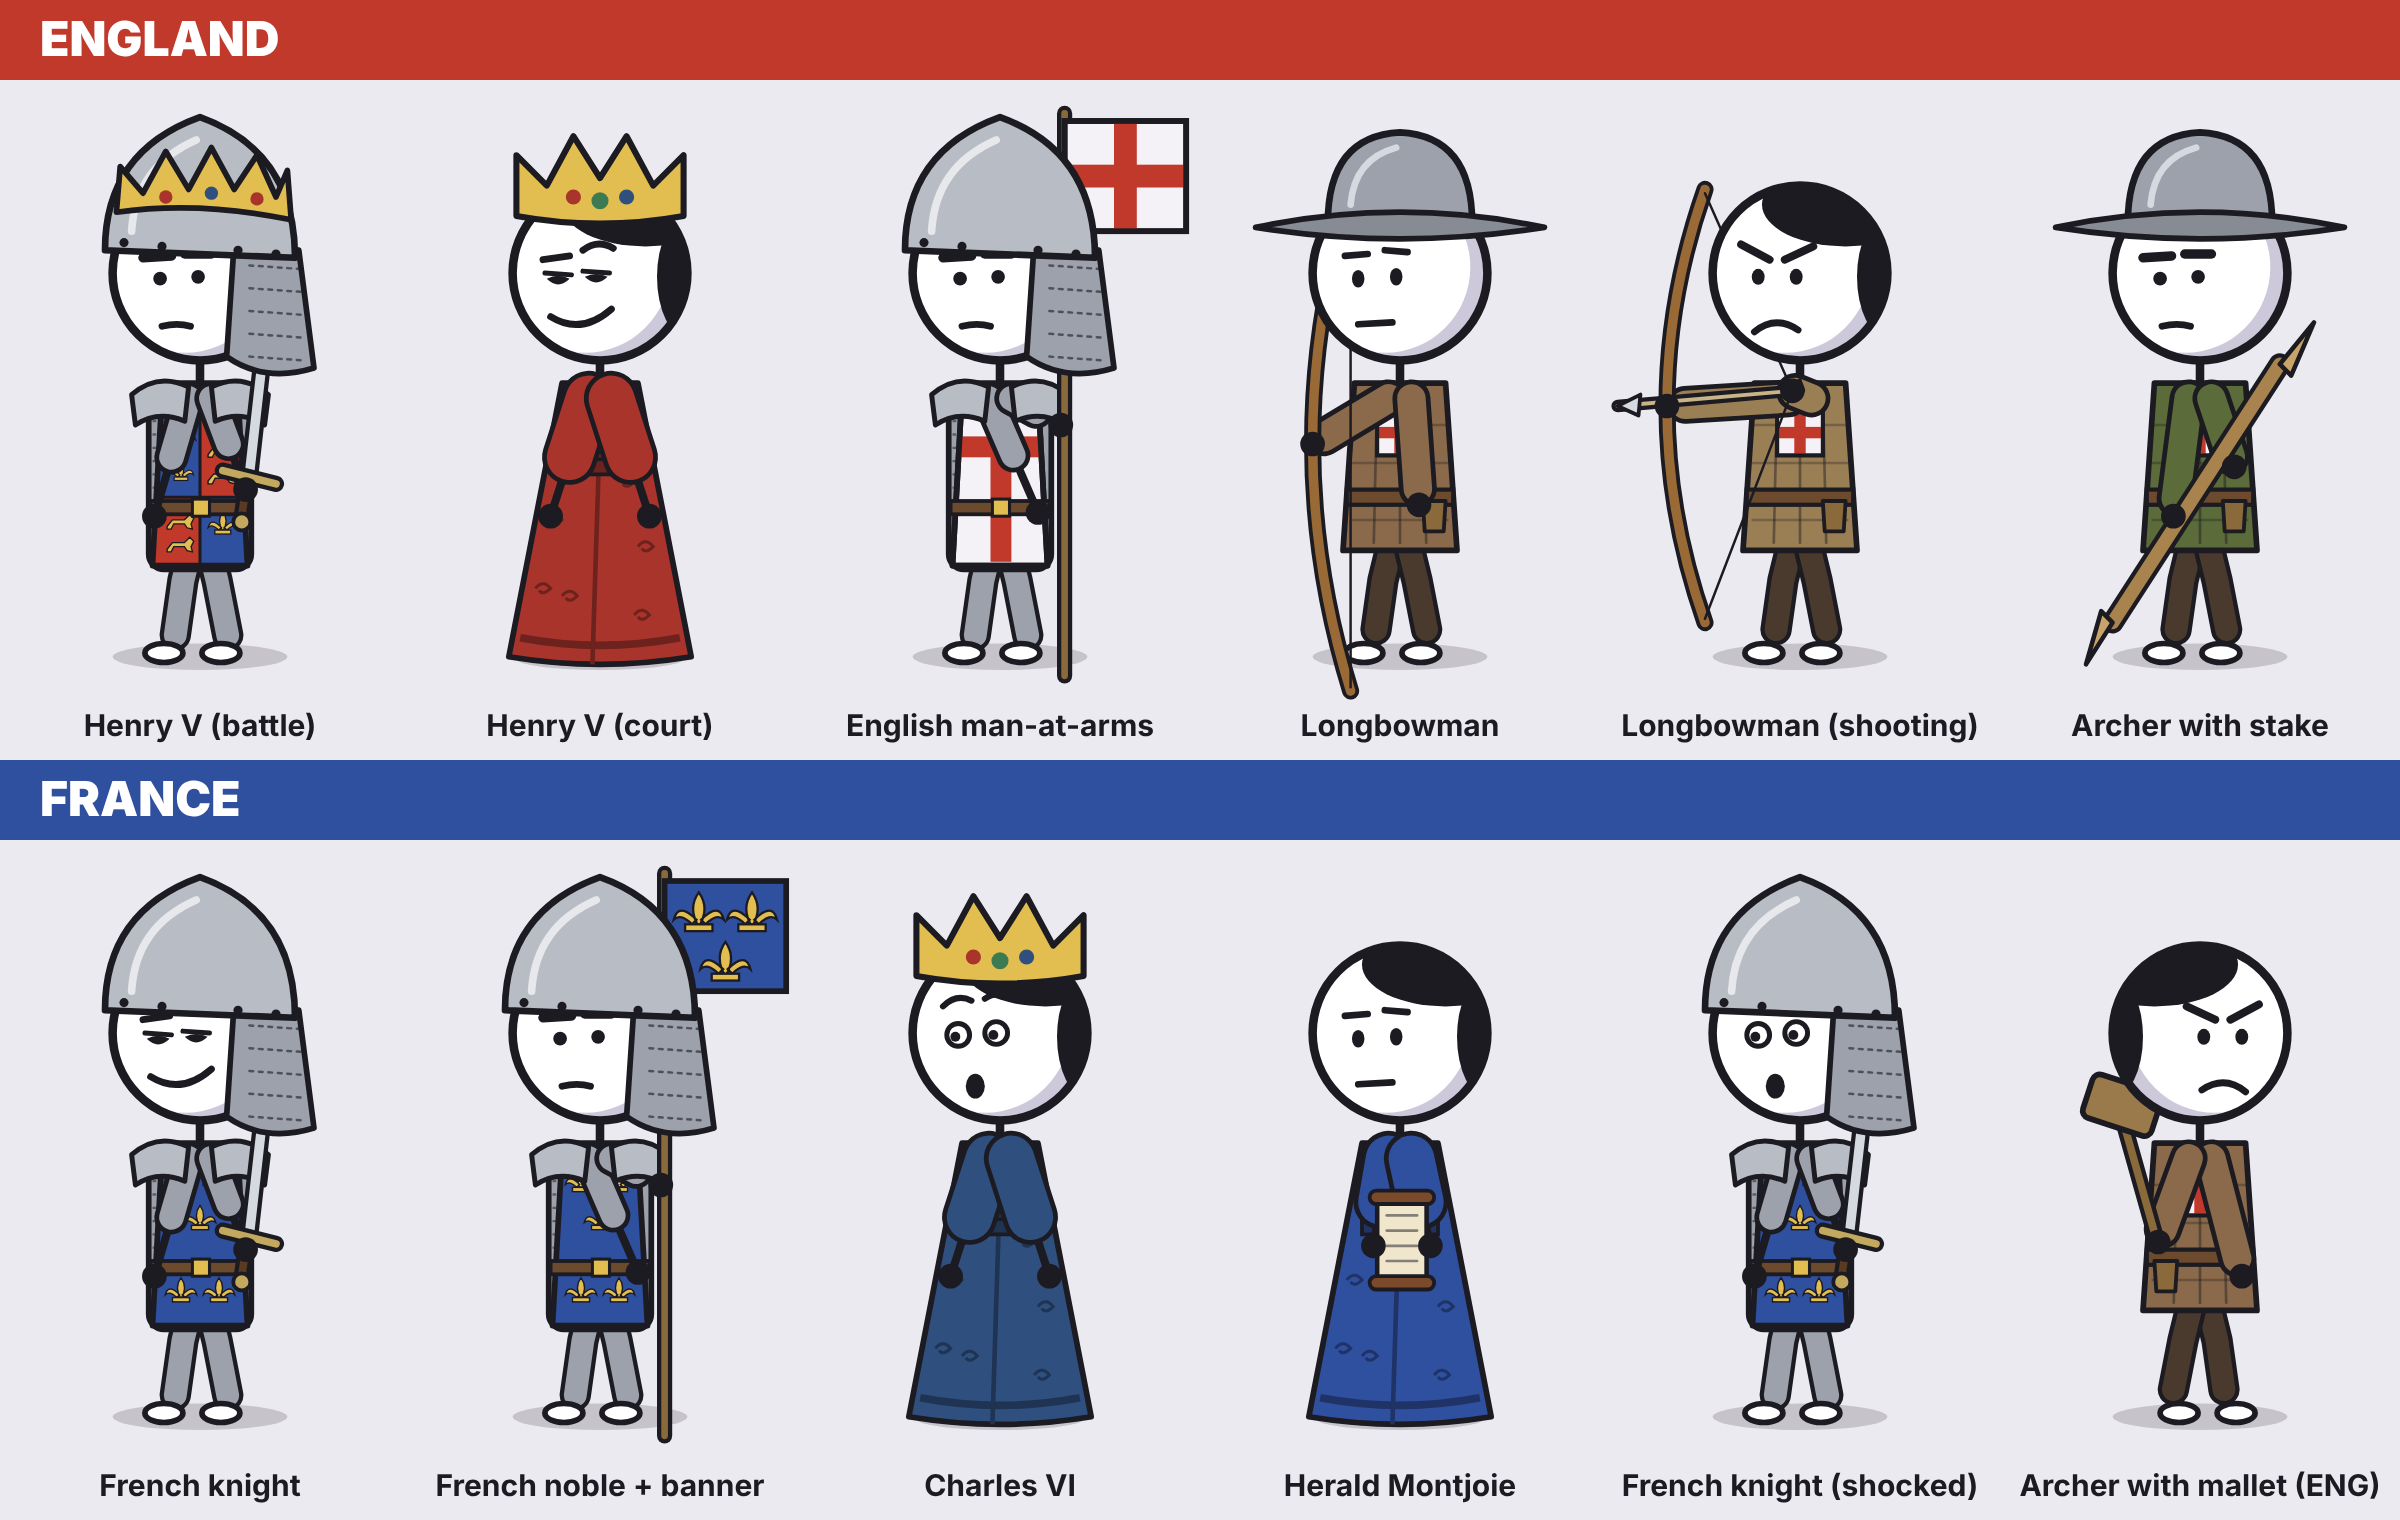
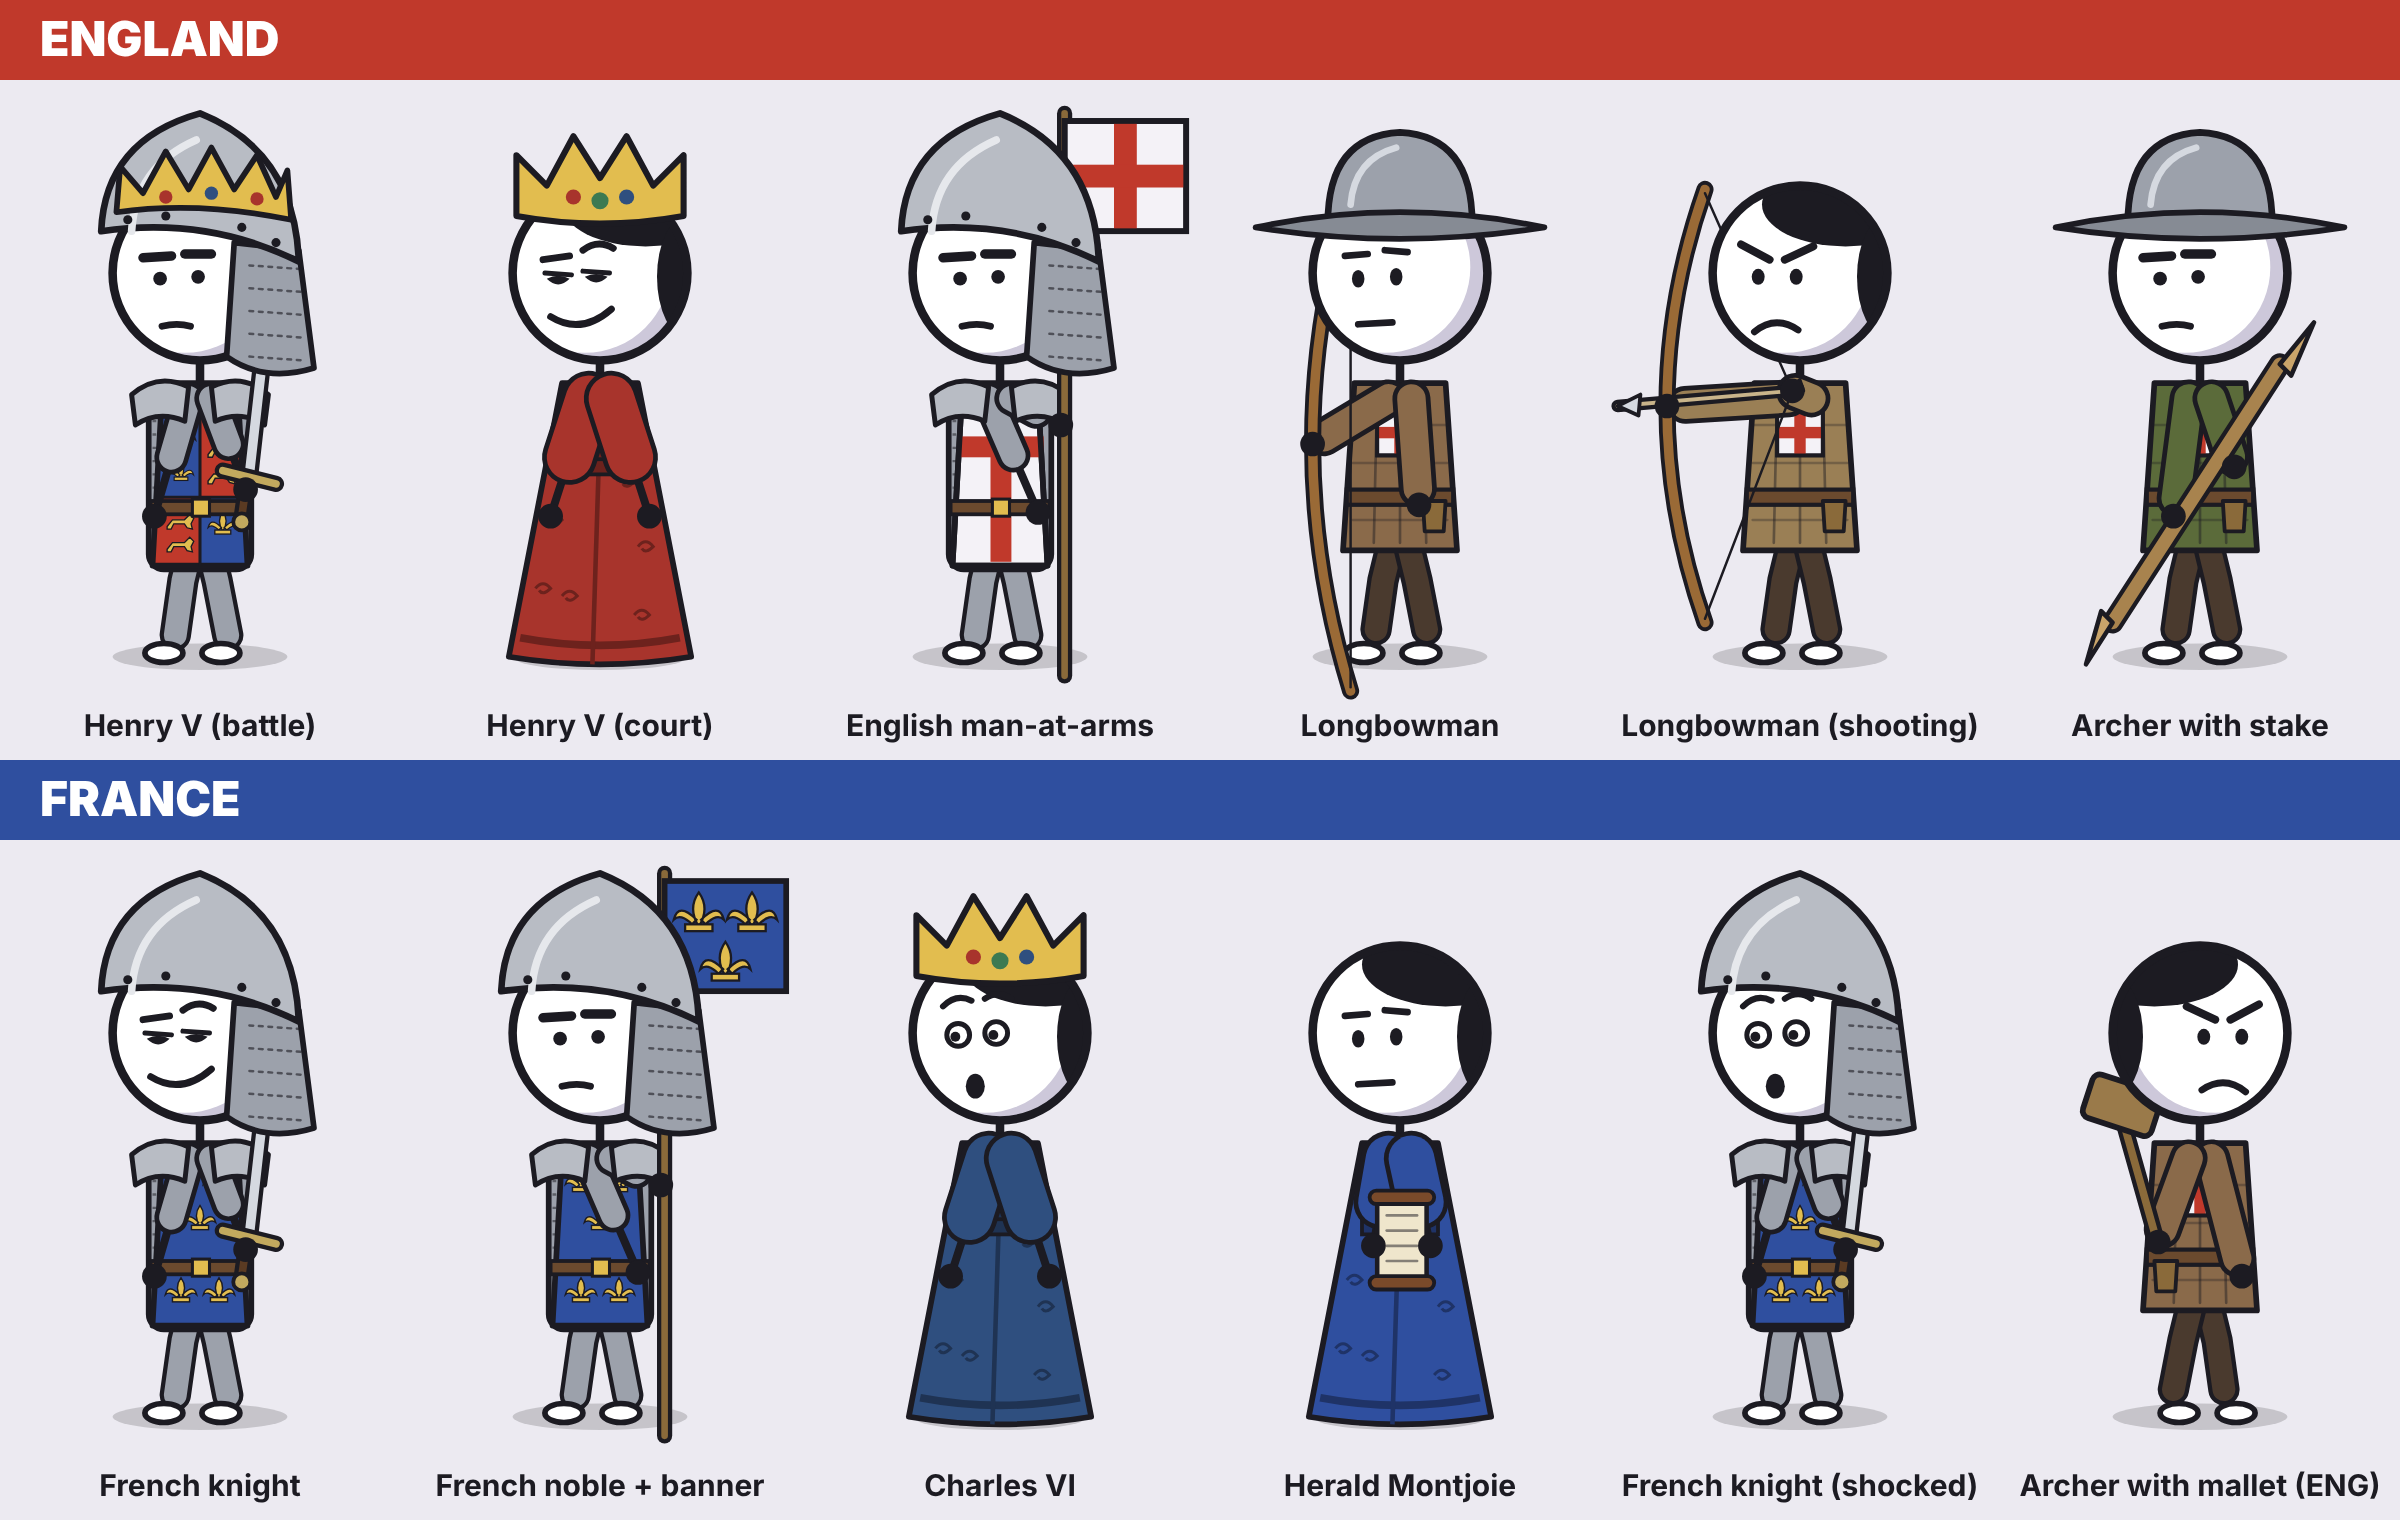
Agincourt: style test (close-up, expressive faces, castle hall); open bascinet face
Claude-Session: https://claude.ai/code/session_017MZkjKDMev6tKpnRG7nu5t

diff --git a/index.html b/index.html
@@ -153,7 +153,7 @@ const HATS={
   mandarin:{label:"Mũ cánh chuồn",d:()=>`<ellipse cx="32" cy="34" rx="24" ry="7" fill="${INK}" transform="rotate(-8 32 34)"/><ellipse cx="168" cy="34" rx="24" ry="7" fill="${INK}" transform="rotate(8 168 34)"/>`+P("M56,48 Q58,16 100,14 Q142,16 144,48 Z",INK,3)+P("M76,22 Q78,-6 100,-8 Q122,-6 124,22 Z","#2a2830",3)+ln(60,44,140,44,"#c9a45a",2.5)},
   crown:{label:"Vương miện",d:()=>P("M56,40 L56,8 L72,24 L86,-2 L100,20 L114,-2 L128,24 L144,8 L144,40 Q100,48 56,40Z","#e2bd4f",3.2)+`<circle cx="86" cy="30" r="4" fill="#a8342c"/><circle cx="114" cy="30" r="4" fill="#2f4f7f"/><circle cx="100" cy="32" r="4.5" fill="#3c7a52"/>`},
   roman:{label:"Mũ La Mã",d:()=>`<path d="M58,6 Q100,-34 152,10 Q140,0 100,-10 Q74,-6 58,6Z" fill="#a8342c" stroke="${INK}" stroke-width="3"/>`+P("M54,52 Q56,8 100,6 Q144,8 146,52 Z","#b8bcc4",3.5)+P("M128,50 L152,50 L150,100 L132,92 Z","#a3a8b1",3)+P("M44,52 Q100,42 156,52 L154,58 Q100,50 46,58Z","#8e939c",3)+ln(100,8,100,48,"#8e939c",2)},
-  bascinet:{label:"Mũ hiệp sĩ",d:()=>P("M118,54 L152,58 L160,120 Q134,128 114,114 Z","#9ca1ab",3)+[66,78,90,102,114].map(y=>ln(126,y,154,y+2,INK,1.3,'stroke-dasharray="2 3" opacity=".6"')).join("")+P("M50,58 Q50,6 100,-12 Q150,6 150,62 Z","#b8bcc4",3.5)+`<path d="M64,48 Q66,14 98,0" fill="none" stroke="#e6e8ec" stroke-width="4" stroke-linecap="round"/>`+[[60,54],[80,56],[120,58],[140,60]].map(([x,y])=>`<circle cx="${x}" cy="${y}" r="2.4" fill="${INK}"/>`).join("")},
+  bascinet:{label:"Mũ hiệp sĩ",d:()=>P("M118,54 L152,58 L160,120 Q134,128 114,114 Z","#9ca1ab",3)+[66,78,90,102,114].map(y=>ln(126,y,154,y+2,INK,1.3,'stroke-dasharray="2 3" opacity=".6"')).join("")+P("M48,48 Q50,0 100,-14 Q150,6 152,64 Q104,40 48,48 Z","#b8bcc4",3.5)+`<path d="M64,48 Q66,14 98,0" fill="none" stroke="#e6e8ec" stroke-width="4" stroke-linecap="round"/>`+[[62,42],[82,40],[122,46],[140,54]].map(([x,y])=>`<circle cx="${x}" cy="${y}" r="2.4" fill="${INK}"/>`).join("")},
   royalhelm:{label:"Mũ hiệp sĩ đội vương miện",d:()=>HATS.bascinet.d()+P("M56,38 L58,14 L70,28 L82,6 L94,26 L106,4 L118,26 L130,8 L140,30 L146,16 L148,42 Q100,32 56,38Z","#e2bd4f",3)+`<circle cx="82" cy="30" r="3.5" fill="#a8342c"/><circle cx="106" cy="28" r="3.5" fill="#2f4f7f"/><circle cx="130" cy="31" r="3.5" fill="#a8342c"/>`},
   kettle:{label:"Mũ sắt vành rộng",d:()=>P("M62,44 Q62,-2 100,-4 Q138,-2 138,44 Z","#9ca1ab",3.5)+`<path d="M74,34 Q76,10 98,4" fill="none" stroke="#d5d9e0" stroke-width="3.5" stroke-linecap="round"/>`+P("M24,46 Q100,30 176,46 Q100,58 24,46Z","#868b94",3)},
   tophat:{label:"Mũ chóp cao",d:()=>P("M68,30 L72,-28 L128,-28 L132,30 Z","#26242c",3.5)+`<rect x="70" y="14" width="60" height="9" fill="#a8342c"/>`+P("M40,34 Q100,22 160,34 Q100,42 40,34Z","#26242c",3.5)}
